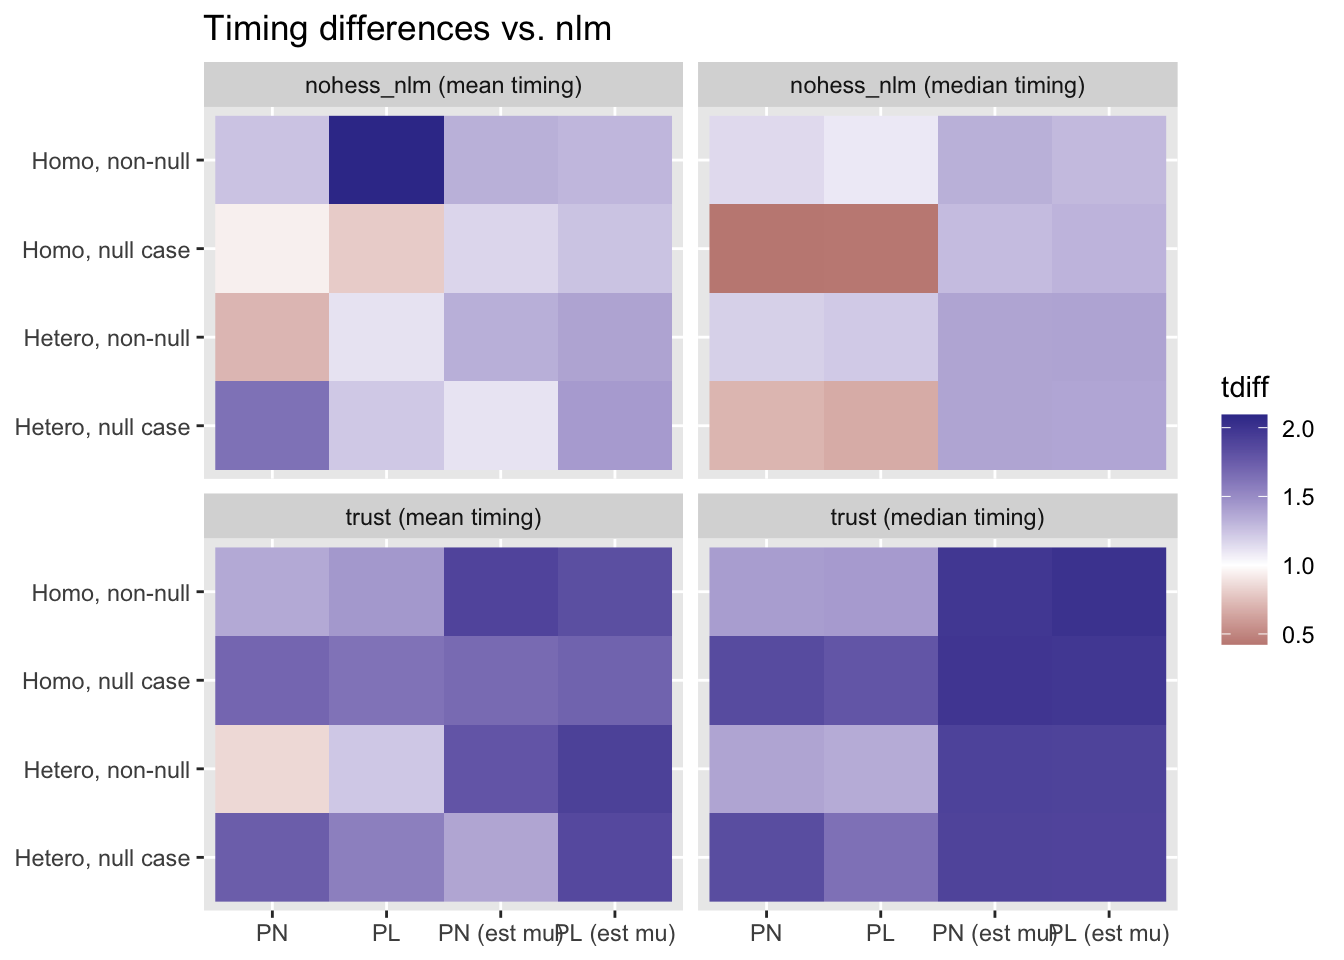
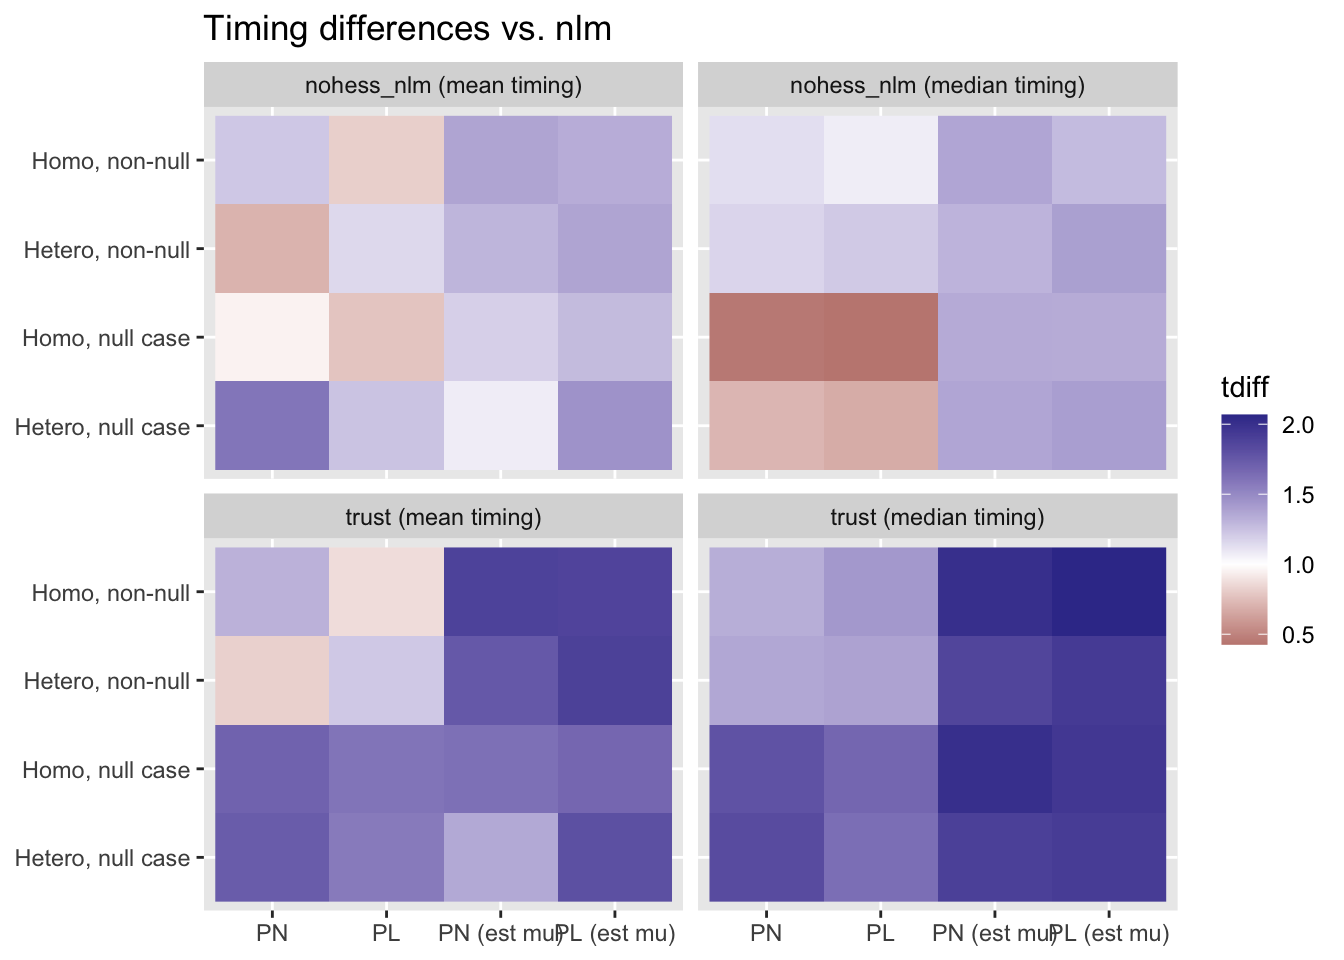
Build site.

diff --git a/docs/optmethods.html b/docs/optmethods.html
@@ -443,10 +443,10 @@ This reproducible <a href="http://rmarkdown.rstudio.com">R Markdown</a> analysis
 <div class="panel panel-default">
 <div class="panel-heading">
 <p class="panel-title">
-<a data-toggle="collapse" data-parent="#workflowr-checks" href="#strongRepositoryversionstrongahrefhttpsgithubcomwillwerscheidebnmpapertree21eb97e057fecdbcf71246af4b0d1fa19a38a75ftargetblank21eb97ea"> <span class="glyphicon glyphicon-ok text-success" aria-hidden="true"></span> <strong>Repository version:</strong> <a href="https://github.com/willwerscheid/ebnm-paper/tree/21eb97e057fecdbcf71246af4b0d1fa19a38a75f" target="_blank">21eb97e</a> </a>
+<a data-toggle="collapse" data-parent="#workflowr-checks" href="#strongRepositoryversionstrongahrefhttpsgithubcomwillwerscheidebnmpapertreee57f4e0140ccfa5fe203cabff046e9f8705feadctargetblanke57f4e0a"> <span class="glyphicon glyphicon-ok text-success" aria-hidden="true"></span> <strong>Repository version:</strong> <a href="https://github.com/willwerscheid/ebnm-paper/tree/e57f4e0140ccfa5fe203cabff046e9f8705feadc" target="_blank">e57f4e0</a> </a>
 </p>
 </div>
[2 lines of base64/hex data omitted]
 <div class="panel-body">
 <p>
 Great! You are using Git for version control. Tracking code development and connecting the code version to the results is critical for reproducibility. The version displayed above was the version of the Git repository at the time these results were generated. <br><br> Note that you need to be careful to ensure that all relevant files for the analysis have been committed to Git prior to generating the results (you can use <code>wflow_publish</code> or <code>wflow_git_commit</code>). workflowr only checks the R Markdown file, but you know if there are other scripts or data files that it depends on. Below is the status of the Git repository when the results were generated:
@@ -501,6 +501,40 @@ Message
 Rmd
 </td>
 <td>
+<a href="https://github.com/willwerscheid/ebnm-paper/blob/e57f4e0140ccfa5fe203cabff046e9f8705feadc/analysis/optmethods.Rmd" target="_blank">e57f4e0</a>
+</td>
+<td>
+Jason Willwerscheid
+</td>
+<td>
+2021-01-12
+</td>
+<td>
+wflow_publish(“analysis/optmethods.Rmd”)
+</td>
+</tr>
+<tr>
+<td>
+html
+</td>
+<td>
+<a href="https://rawcdn.githack.com/willwerscheid/ebnm-paper/841d017d86cc5cc4f5980111eba4dc5a72f1fedf/docs/optmethods.html" target="_blank">841d017</a>
+</td>
+<td>
+Jason Willwerscheid
+</td>
+<td>
+2021-01-12
+</td>
+<td>
+Build site.
+</td>
+</tr>
+<tr>
+<td>
+Rmd
+</td>
+<td>
 <a href="https://github.com/willwerscheid/ebnm-paper/blob/21eb97e057fecdbcf71246af4b0d1fa19a38a75f/analysis/optmethods.Rmd" target="_blank">21eb97e</a>
 </td>
 <td>
@@ -520,7 +554,7 @@ wflow_publish(“analysis/optmethods.Rmd”)
 </div>
 </div>
 </div>
-<p>I only consider optimization methods <code>nlm</code>, <code>nohess_nlm</code>, and <code>trust</code> here, since previous tests suggested that these were the only consistently competitive methods. I do a more careful comparison here, with sixteen possible scenarios:</p>
+<p>I only consider optimization methods <code>nlm</code>, <code>nohess_nlm</code>, and <code>trust</code> here, since previous tests suggested that these were the only regularly competitive methods. I do a more careful comparison, with sixteen possible scenarios:</p>
 <ul>
 <li>The prior family can be point-normal or point-laplace</li>
 <li>The “true” prior can be an element of the prior family or null</li>
@@ -636,8 +670,8 @@ plot_one_n &lt;- function(res) {
                              ifelse(null_case, &quot;null case&quot;, &quot;non-null&quot;))),
            facet = paste0(comparison_method, &quot; (&quot;, sumstat, &quot; timing)&quot;)) %&gt;%
     mutate(x = fct_relevel(x, &quot;PN&quot;, &quot;PL&quot;, &quot;PN (est mu)&quot;, &quot;PL (est mu)&quot;),
-           y = fct_relevel(y, &quot;Hetero, null case&quot;, &quot;Hetero, non-null&quot;, 
-                           &quot;Homo, null case&quot;, &quot;Homo, non-null&quot;))
+           y = fct_relevel(y, &quot;Hetero, null case&quot;, &quot;Homo, null case&quot;, 
+                           &quot;Hetero, non-null&quot;, &quot;Homo, non-null&quot;))
   
   plt &lt;- ggplot(res, aes(x = x, y = y)) + 
     geom_raster(aes(fill = tdiff)) +
@@ -652,16 +686,128 @@ plot_one_n &lt;- function(res) {
 <h2><span class="math inline">\(n = 1000\)</span></h2>
 <pre class="r"><code>plot_one_n(one_n(1000, mb_times = 100L))</code></pre>
 <p><img src="figure/optmethods.Rmd/n1000-1.png" width="672" style="display: block; margin: auto;" /></p>
+<p>
+<button type="button" class="btn btn-default btn-xs btn-workflowr btn-workflowr-fig" data-toggle="collapse" data-target="#fig-n1000-1">
+Past versions of n1000-1.png
+</button>
+</p>
+<div id="fig-n1000-1" class="collapse">
+<div class="table-responsive">
+<table class="table table-condensed table-hover">
+<thead>
+<tr>
+<th>
+Version
+</th>
+<th>
+Author
+</th>
+<th>
+Date
+</th>
+</tr>
+</thead>
+<tbody>
+<tr>
+<td>
+<a href="https://github.com/willwerscheid/ebnm-paper/blob/841d017d86cc5cc4f5980111eba4dc5a72f1fedf/docs/figure/optmethods.Rmd/n1000-1.png" target="_blank">841d017</a>
+</td>
+<td>
+Jason Willwerscheid
+</td>
+<td>
+2021-01-12
+</td>
+</tr>
+</tbody>
+</table>
+</div>
+</div>
 </div>
 <div id="n-10000" class="section level2">
 <h2><span class="math inline">\(n = 10000\)</span></h2>
 <pre class="r"><code>plot_one_n(one_n(10000, mb_times = 100L))</code></pre>
 <p><img src="figure/optmethods.Rmd/n10000-1.png" width="672" style="display: block; margin: auto;" /></p>
+<p>
+<button type="button" class="btn btn-default btn-xs btn-workflowr btn-workflowr-fig" data-toggle="collapse" data-target="#fig-n10000-1">
+Past versions of n10000-1.png
+</button>
+</p>
+<div id="fig-n10000-1" class="collapse">
+<div class="table-responsive">
+<table class="table table-condensed table-hover">
+<thead>
+<tr>
+<th>
+Version
+</th>
+<th>
+Author
+</th>
+<th>
+Date
+</th>
+</tr>
+</thead>
+<tbody>
+<tr>
+<td>
+<a href="https://github.com/willwerscheid/ebnm-paper/blob/841d017d86cc5cc4f5980111eba4dc5a72f1fedf/docs/figure/optmethods.Rmd/n10000-1.png" target="_blank">841d017</a>
+</td>
+<td>
+Jason Willwerscheid
+</td>
+<td>
+2021-01-12
+</td>
+</tr>
+</tbody>
+</table>
+</div>
+</div>
 </div>
 <div id="n-100000" class="section level2">
 <h2><span class="math inline">\(n = 100000\)</span></h2>
 <pre class="r"><code>plot_one_n(one_n(100000, mb_times = 100L))</code></pre>
-<img src="figure/optmethods.Rmd/n100000-1.png" width="672" style="display: block; margin: auto;" /> <br> <br>
+<p><img src="figure/optmethods.Rmd/n100000-1.png" width="672" style="display: block; margin: auto;" /></p>
+<p>
+<button type="button" class="btn btn-default btn-xs btn-workflowr btn-workflowr-fig" data-toggle="collapse" data-target="#fig-n100000-1">
+Past versions of n100000-1.png
+</button>
+</p>
+<div id="fig-n100000-1" class="collapse">
+<div class="table-responsive">
+<table class="table table-condensed table-hover">
+<thead>
+<tr>
+<th>
+Version
+</th>
+<th>
+Author
+</th>
+<th>
+Date
+</th>
+</tr>
+</thead>
+<tbody>
+<tr>
+<td>
+<a href="https://github.com/willwerscheid/ebnm-paper/blob/841d017d86cc5cc4f5980111eba4dc5a72f1fedf/docs/figure/optmethods.Rmd/n100000-1.png" target="_blank">841d017</a>
+</td>
+<td>
+Jason Willwerscheid
+</td>
+<td>
+2021-01-12
+</td>
+</tr>
+</tbody>
+</table>
+</div>
+</div>
+<br> <br>
 <p>
 <button type="button" class="btn btn-default btn-workflowr btn-workflowr-sessioninfo" data-toggle="collapse" data-target="#workflowr-sessioninfo" style="display: block;">
 <span class="glyphicon glyphicon-wrench" aria-hidden="true"></span> Session information
